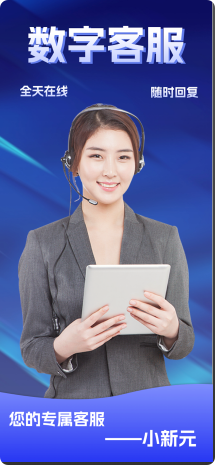
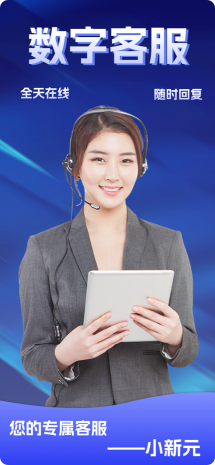
样式微调

diff --git a/src/components/Accordion/index.vue b/src/components/Accordion/index.vue
@@ -48,7 +48,7 @@
                         :state="growRef === 1 ? 'expand' : ''"
                         :style="{
                             flexGrow: growRef === 1 ? 2 : 1,
-                            backgroundPosition:`left`,
+                            backgroundPosition:`16% center`,
                             state:growRef === 0 ? 'expand' : ''
                             }" 
                         class="mr20" 
@@ -62,7 +62,7 @@
                         :state="growRef === 2 ? 'expand' : ''" 
                         :style="{
                             flexGrow: growRef === 2 ? 2 : 1,
-                            backgroundPosition:`right`,
+                            backgroundPosition:`80% center`,
                             state:growRef === 0 ? 'expand' : ''
                             }" 
                         growRef="growRef" 

diff --git a/src/components/Footer/index.css b/src/components/Footer/index.css
@@ -102,18 +102,20 @@ footer {
     text-align: center;
     width: 212px;
     height: 234px;
-    background: #1C1E26;
+    /* background: #1C1E26; */
+    background: rgba(28,30,38,0.4);
     border-radius: 2px;
-    opacity: 0.4;
+    /* opacity: 0.4; */
 }
 
 .top .weixin .right-weixin {
     text-align: center;
     width: 212px;
     height: 234px;
-    background: #1C1E26;
+    /* background: #1C1E26; */
+    background: rgba(28,30,38,0.4);
     border-radius: 2px;
-    opacity: 0.4;
+    /* opacity: 0.4; */
     margin-left: 20px;
 }
 

diff --git a/src/components/LongImage/index.css b/src/components/LongImage/index.css
@@ -30,19 +30,20 @@
 }
 
 .longimage .poster1 .text-content {
-    /* position: absolute; */
-    padding: 114px 0 0 120px;
+    padding-left: 120px;
     position: absolute;
     left: 0;
-    top: 0;
+    top: 50%;
+    transform: translateY(-50%);
 }
 
 .longimage .poster2 .text-content {
     position: absolute;
-    padding: 87px 116px 0 0;
+    padding-right: 87px;
     text-align: right;
     right: 0;
-    top: 0;
+    top: 50%;
+    transform: translateY(-50%);
 }
 
 .text-content .title1,

diff --git a/src/assets/main.css b/src/assets/main.css
@@ -29,9 +29,9 @@ body{
 /* 时间0.6,移动30px,不透明度0.3-1 */
 /* 动画变化前的样式 */
 .before-move{
-  transform: translateY(30px);
+  transform: translateY(60px);
   transition-property: transform opacity;
-  transition-duration: 0.6s!important;
+  transition-duration: 1.2s!important;
   /* transition-duration: 1s!important; */
   transition-timing-function: cubic-bezier(0,0.42,0.2,0.99);
   opacity: 0.3;

diff --git a/src/components/CardList/index.vue b/src/components/CardList/index.vue
@@ -64,7 +64,7 @@ onMounted(()=>{
                 class="card4-before-move"
                 title="直播不间断" 
                 content1="可24小时数字人互动直播" 
-                content2="无谓时段、时节与环境，" 
+                content2="无谓时段、时节与环境" 
                 content3="时间利用更充分，互动营销更高效" />
             </el-col>
         </el-row>

diff --git a/src/components/Accordion/MiddleCard/index.css b/src/components/Accordion/MiddleCard/index.css
@@ -37,7 +37,7 @@ h2 {
     /* text-align: left; */
     padding: 0 28px;
     box-sizing: border-box;
-    transition: 2s;
+    transition: .1s;
 }
 
 .short-text {
@@ -48,7 +48,7 @@ h2 {
     /* text-align: left; */
     padding: 0 28px;
     box-sizing: border-box;
-    transition: 2s;
+    transition: .1s;
     text-align: center;
     /* opacity: 0; */
 }

diff --git a/src/components/Carousel/components/CarouselItem.css b/src/components/Carousel/components/CarouselItem.css
@@ -22,7 +22,7 @@
     display: flex;
     flex-direction: column;
     animation-name: caseStyle;
-    animation-duration: 100s;
+    animation-duration: 60s;
     animation-timing-function: linear;
     animation-direction: normal;
     animation-iteration-count: infinite;
